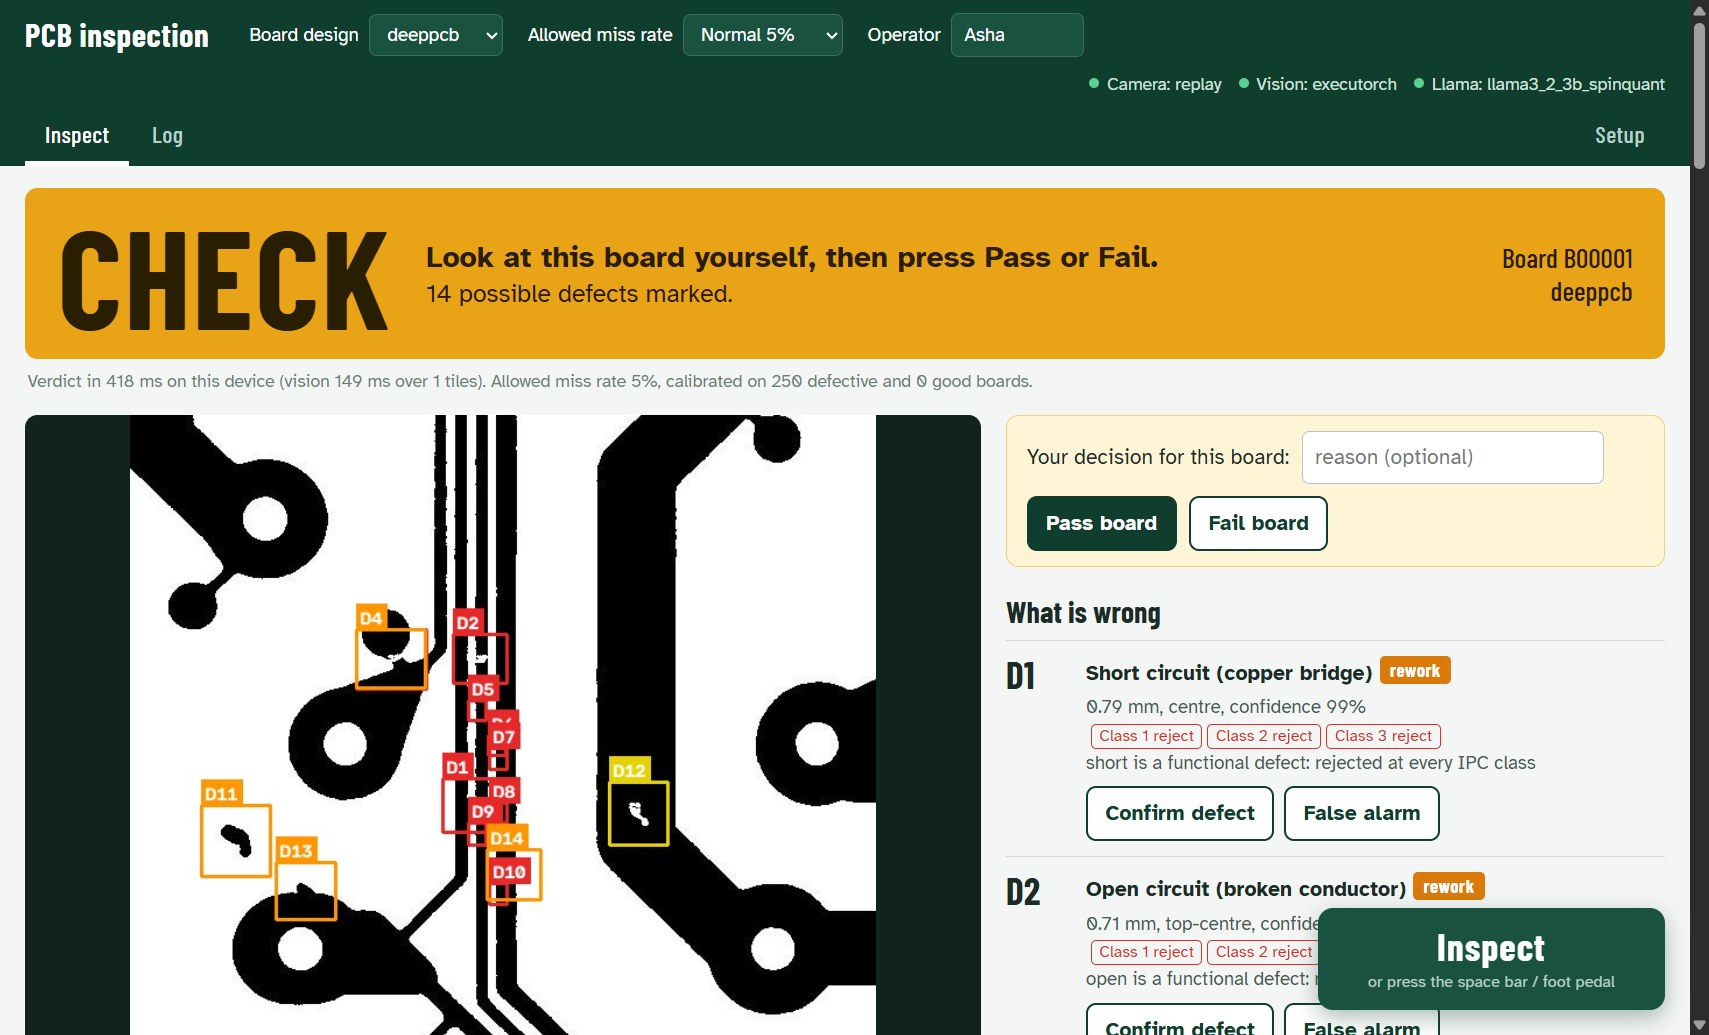
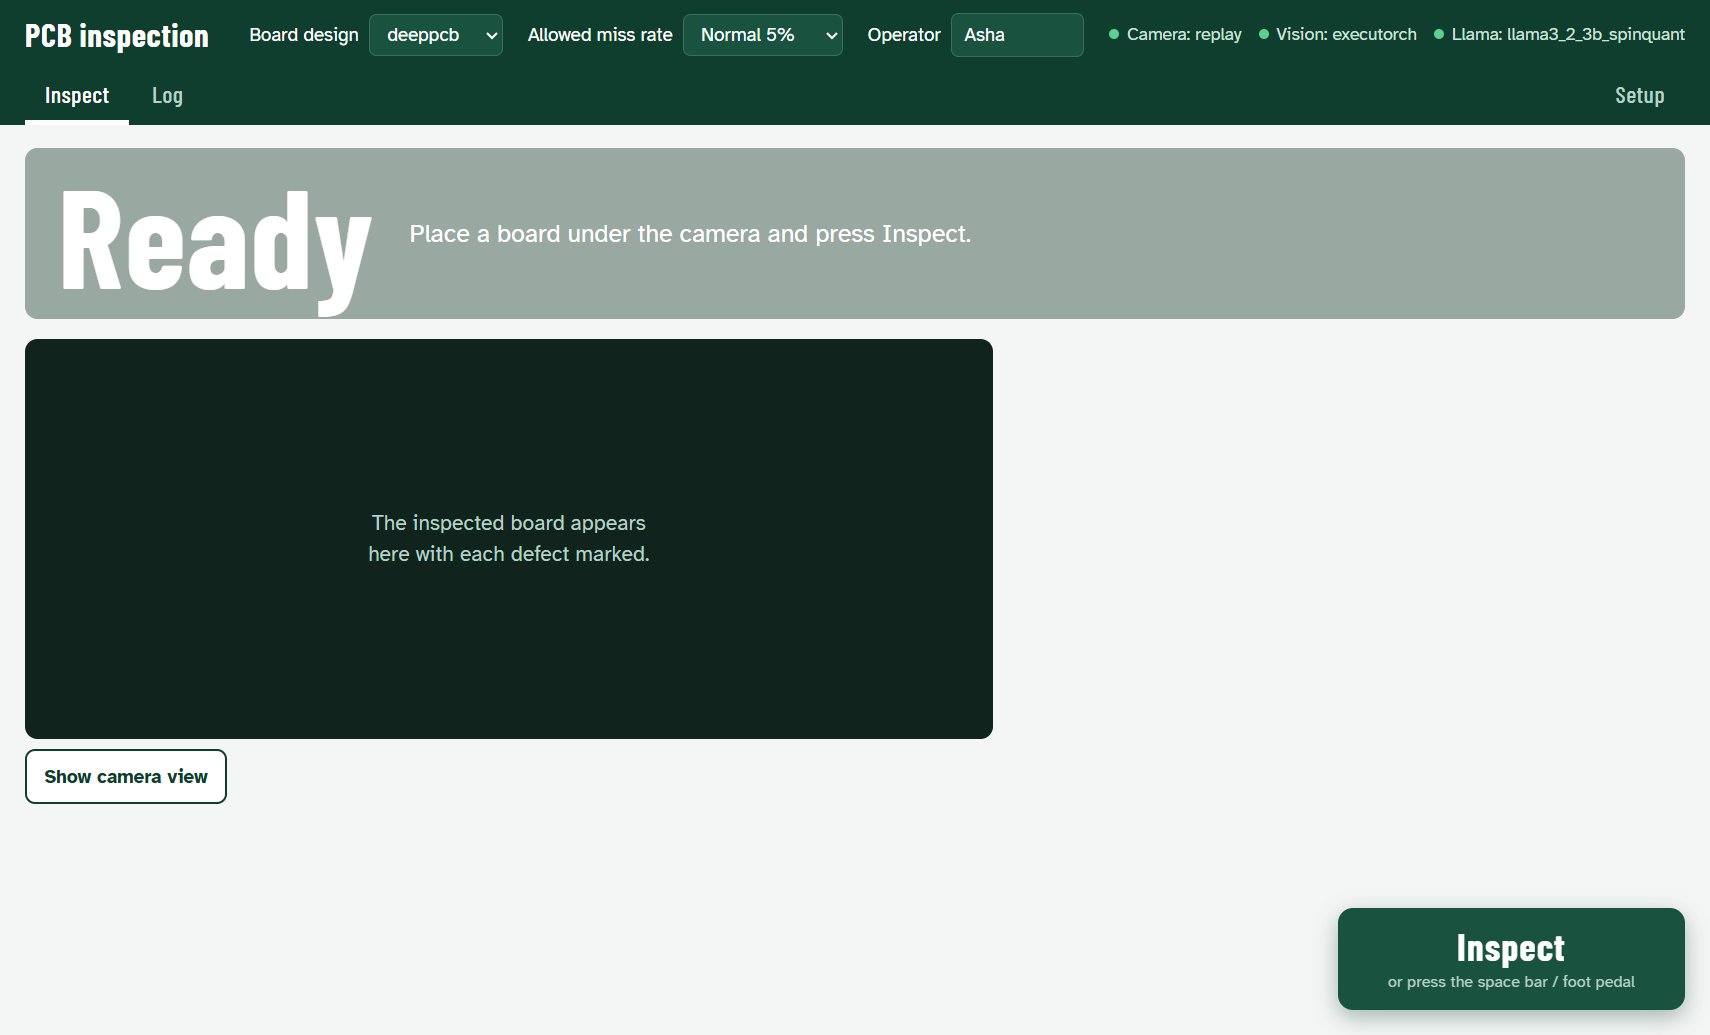
Fix a crash: the Llama loader resized ExecuTorch's shared thread pool, after which every inspection run from the web server's worker thread segfaulted. Loaded models are also kept alive with their methods. The Pi check now tests that exact case

diff --git a/pcbinspect/llm_logits.py b/pcbinspect/llm_logits.py
@@ -123,16 +123,17 @@ class LogitLlama:
         import torch
         from executorch.runtime import Runtime
         self._torch = torch
-        if threads:
-            try:    # ExecuTorch's shared threadpool (the Pi has 4 cores; the vision models use it too)
-                from executorch.extension.pybindings import portable_lib
-                portable_lib._unsafe_reset_threadpool(int(threads))
-            except Exception:   # noqa: BLE001  (not exposed in this build: keep the default)
-                pass
+        # `threads` is accepted for compatibility but the shared thread pool is NOT resized here. ExecuTorch's
+        # _unsafe_reset_threadpool rebuilds the pool for the whole process; afterwards any model run from
+        # another thread (the web server runs each inspection in a worker thread) crashed with a segmentation
+        # fault. The default pool already uses every core (4 on the Pi 5). Benchmarks that compare 1/2/4
+        # threads resize it themselves, in single-threaded scripts (bench/bench_device.py).
+        self.threads_requested = threads
         self.model = Path(pte_path).stem
         t0 = time.perf_counter()
-        prog = Runtime.get().load_program(str(pte_path))
-        self.method = prog.load_method("forward")
+        # keep the Program: executorch's Method does not hold it, and a freed Program crashes the next execute()
+        self._program = Runtime.get().load_program(str(pte_path))
+        self.method = self._program.load_method("forward")
         self.load_ms = (time.perf_counter() - t0) * 1e3
         self.tok = load_tokenizer(tokenizer_path)
         self.max_ctx = 2048

diff --git a/deploy/arm_check.py b/deploy/arm_check.py
@@ -80,6 +80,22 @@ def main():
         if pick != " Paris":
             sys.exit(f"ARM CHECK FAILED: constrained decoding chose {pick!r}")
         print(f"llama constrained choice on {pte.name}: {pick.strip()} (margin {margin:.1f}) in {ms:.0f} ms", flush=True)
+        # The station keeps Llama loaded and runs each inspection in a web-server worker thread. That exact
+        # situation once crashed the process (segmentation fault), so it is checked here, not assumed.
+        import threading
+        box = {}
+
+        def worker():
+            try:
+                box["n"] = len(det.detect(bgr)[0])
+            except Exception as exc:   # noqa: BLE001
+                box["err"] = repr(exc)
+        th = threading.Thread(target=worker)
+        th.start()
+        th.join(120)
+        if th.is_alive() or "n" not in box:
+            sys.exit(f"ARM CHECK FAILED: detector in a worker thread with Llama loaded: {box.get('err', 'hung')}")
+        print(f"detector in a worker thread with Llama loaded: {box['n']} detections", flush=True)
         del ll
     print("ARM CHECK OK")
 

diff --git a/pcbinspect/anomaly.py b/pcbinspect/anomaly.py
@@ -84,9 +84,12 @@ def torch_feature_fn(device: str = "cpu", arch: str = "resnet18") -> FeatureFn:
 def executorch_feature_fn(pte_path: str | Path) -> FeatureFn:
     from executorch.runtime import Runtime
     import torch
-    method = Runtime.get().load_program(str(pte_path)).load_method("forward")
+    # keep the Program: executorch's Method does not hold it, and a freed Program crashes the next execute()
+    program = Runtime.get().load_program(str(pte_path))
+    method = program.load_method("forward")
 
     def fn(x: np.ndarray) -> np.ndarray:
+        _ = program                                    # held by the closure for as long as fn lives
         outs = []
         for i in range(x.shape[0]):  # the .pte is exported for batch 1
             outs.append(method.execute([torch.from_numpy(np.ascontiguousarray(x[i:i + 1]))])[0].numpy())

diff --git a/pcbinspect/parts.py b/pcbinspect/parts.py
@@ -317,7 +317,9 @@ class PartKindClassifier:
     def __init__(self, pte_path, names: list[str], batch: int = 1):
         from executorch.runtime import Runtime
         self.names = list(names)
-        self._m = Runtime.get().load_program(str(pte_path)).load_method("forward")
+        # keep the Program: executorch's Method does not hold it, and a freed Program crashes the next execute()
+        self._program = Runtime.get().load_program(str(pte_path))
+        self._m = self._program.load_method("forward")
 
     def __call__(self, crops) -> list[tuple[str, float]]:
         import numpy as np

diff --git a/deploy/check_bundle.py b/deploy/check_bundle.py
@@ -47,7 +47,8 @@ def main() -> int:
     print(f"detector variant: {variant} ({cfg['detector_pte']})", flush=True)
     problems = []
     det_pte, bb_pte = root / cfg["detector_pte"], root / cfg["backbone_pte"]
-    out = Runtime.get().load_program(str(det_pte)).load_method("forward").execute(
+    prog = Runtime.get().load_program(str(det_pte))
+    out = prog.load_method("forward").execute(
         [torch.zeros(1, 3, 640, 640)])[0]
     if out.shape[1] != 4 + len(BARE_CLASSES):
         problems.append(f"detector outputs {out.shape[1]} channels, expected {4 + len(BARE_CLASSES)}")

diff --git a/pcbinspect/detect_bare.py b/pcbinspect/detect_bare.py
@@ -78,7 +78,9 @@ class ExecuTorchTiles:
         import torch
         from executorch.runtime import Runtime
         self._torch = torch
-        self.method = Runtime.get().load_program(str(pte_path)).load_method("forward")
+        # keep the Program: executorch's Method does not hold it, and a freed Program crashes the next execute()
+        self._program = Runtime.get().load_program(str(pte_path))
+        self.method = self._program.load_method("forward")
         self.conf_thr = conf_thr
 
     def infer(self, tile_bgr: np.ndarray) -> np.ndarray:

diff --git a/bench/bench_device.py b/bench/bench_device.py
@@ -121,7 +121,8 @@ def time_method(pte: Path, x: np.ndarray, warmup: int, reps: int) -> dict:
     import torch
     from executorch.runtime import Runtime
     t0 = time.perf_counter()
-    m = Runtime.get().load_program(str(pte)).load_method("forward")
+    prog = Runtime.get().load_program(str(pte))     # kept alive while m runs (see pcbinspect/detect_bare.py)
+    m = prog.load_method("forward")
     load_ms = (time.perf_counter() - t0) * 1e3
     xt = torch.from_numpy(x)
     for _ in range(warmup):

diff --git a/training/export_vision.py b/training/export_vision.py
@@ -45,7 +45,8 @@ def quantize_int8(module: torch.nn.Module, example: tuple, calib: list[np.ndarra
 
 def run_pte(path: Path, x: np.ndarray) -> np.ndarray:
     from executorch.runtime import Runtime
-    m = Runtime.get().load_program(str(path)).load_method("forward")
+    prog = Runtime.get().load_program(str(path))
+    m = prog.load_method("forward")
     return m.execute([torch.from_numpy(x)])[0].numpy()
 
 
